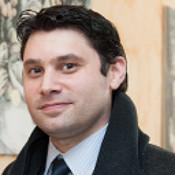
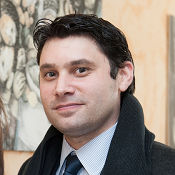
minnor changes

diff --git a/index.html b/index.html
@@ -138,7 +138,7 @@
             </div>
             <div class="panel-body">
               <div class="img-rounded">
-                <img src="img/team/oliver-centeno-alvarez.png"
+                <img src="img/team/oliver-centeno-alvarez.jpg"
                   alt="Óliver Centeno Álvarez" />
               </div>
             </div>

diff --git a/css/custom.css b/css/custom.css
@@ -8,7 +8,7 @@ h1 {
 h2 {
   display: inline-block;
   color: #325578;
-  font-size: 1.6em;
+  font-size: 1.4em;
   font-weight: 500;
 }
 
